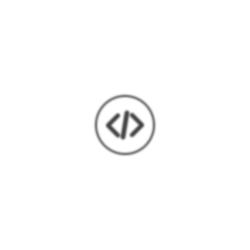
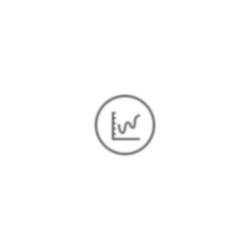
completed website 05/05/2022

Changed region(s): [[0.42, 0.42, 0.588, 0.588]]

diff --git a/index.html b/index.html
@@ -208,7 +208,7 @@ https://templatemo.com/tm-512-moonlight
                             <div class="item">
                                 <div class="thumb">
                                     <div class="hover-content">
-                                        <h1>Programming Languages</h1>
+                                        <h1>Programming</h1>
                                         <ul style="font-size:large; column-span: 0;">
                                             <li>Assembly</li>
                                             <li>C/C++</li>
@@ -225,7 +225,7 @@ https://templatemo.com/tm-512-moonlight
                                     <div class="hover-effect" >
 
                                         <div class="hover-content">
-                                            <h1 >Programming Languages</h1>
+                                            <h1 >Programming</h1>
                                             <ul style="font-size:large;">
                                                 <li>Assembly</li>
                                                 <li>C/C++</li>
@@ -288,7 +288,7 @@ https://templatemo.com/tm-512-moonlight
                                 </div>
                             </div>
                         </div>
-                        <div class="col-md-6" style="background-image: url(img/gear.png); float: left; margin-left:130px">
+                        <div class="col-md-6" style="background-image: url(img/ideas.png); float: left; margin-left:130px">
                             <div class="item">
                                 <div class="thumb">
                                     <div class="hover-content">
@@ -326,7 +326,7 @@ https://templatemo.com/tm-512-moonlight
                                 </div>
                             </div>
                         </div>
-                        <div class="col-md-6" style="background-image: url(img/ideas.png); float: right; margin-right: 130px ">
+                        <div class="col-md-6" style="background-image: url(img/gear.png); float: right; margin-right: 130px ">
                             <div class="item">
                                 <div class="thumb">
                                     <div class="hover-content">
